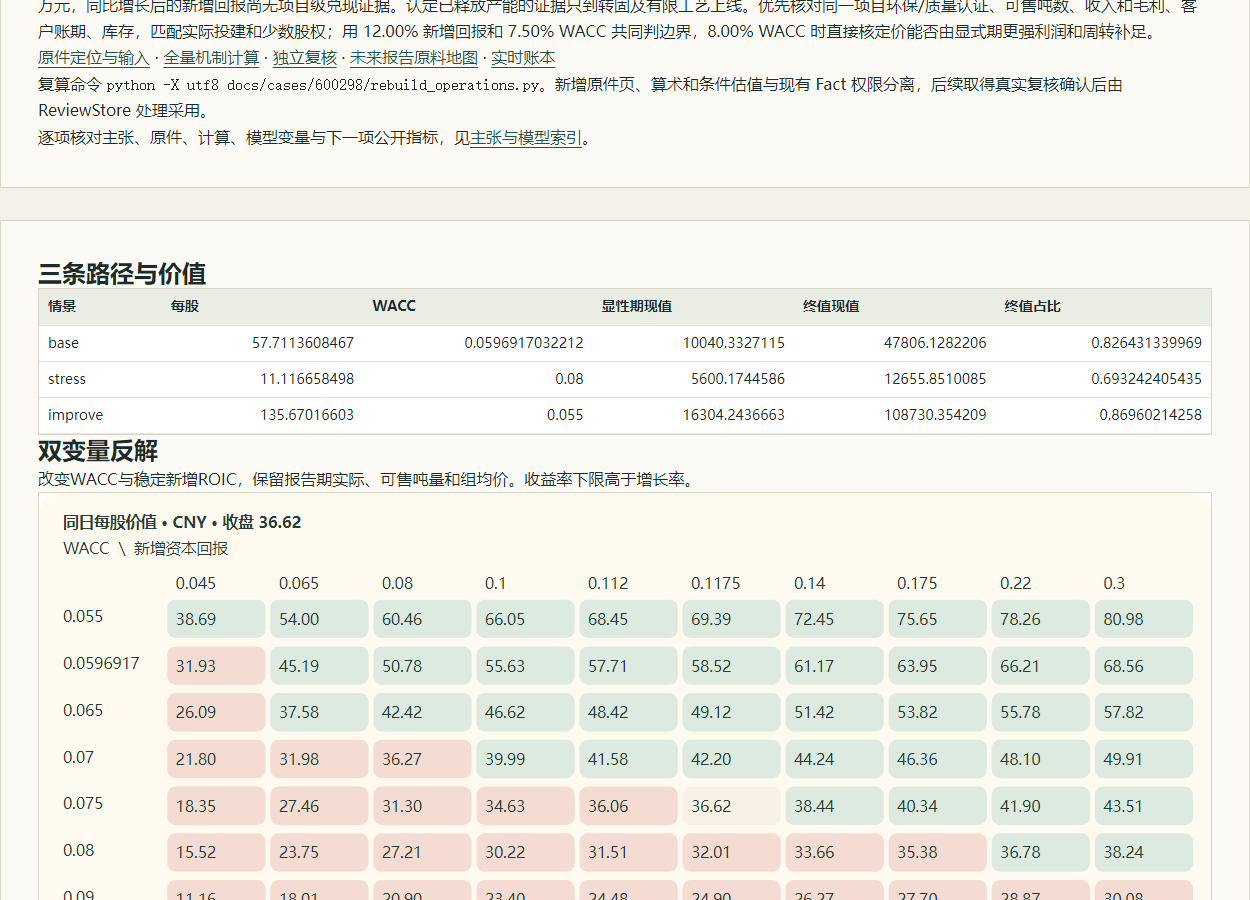
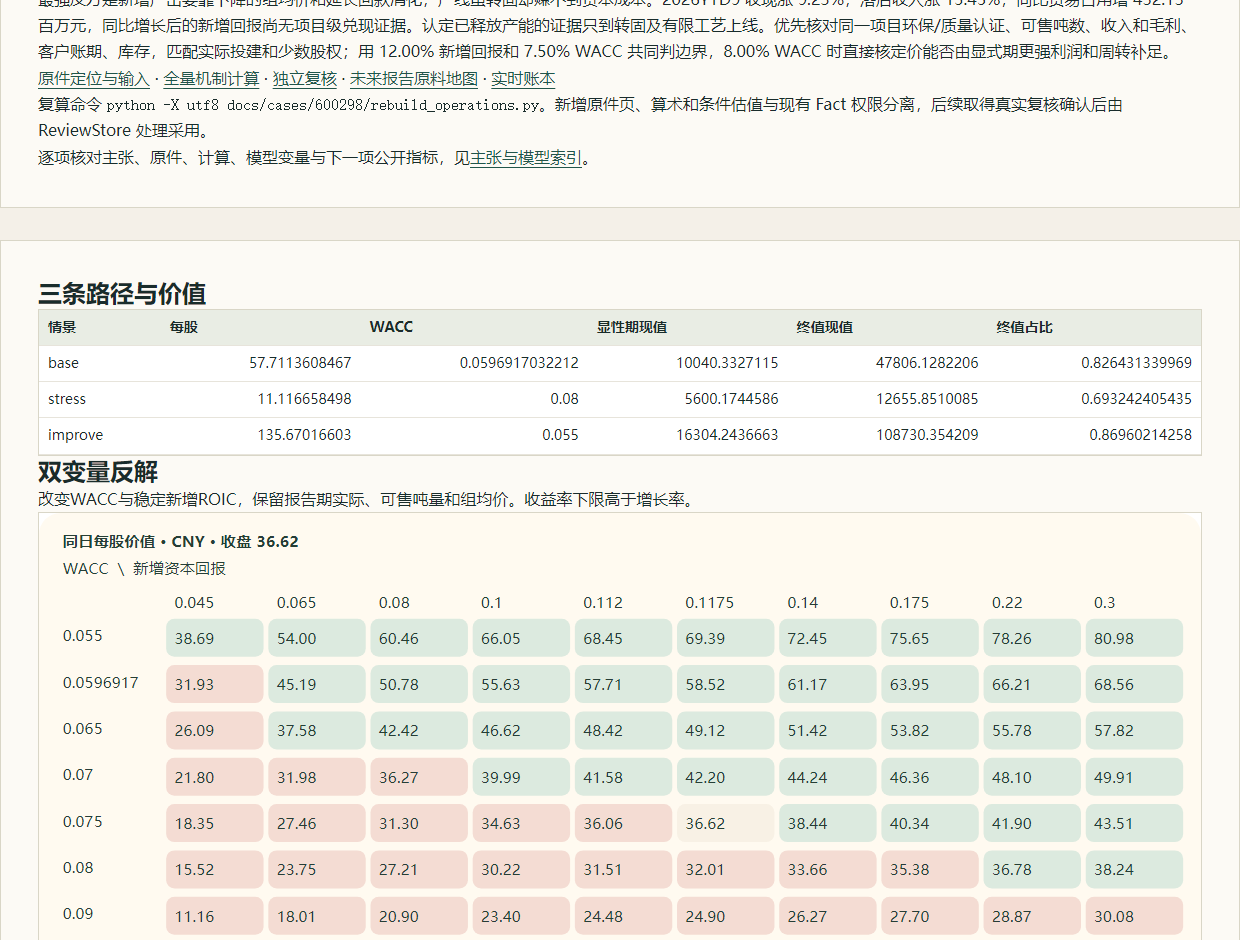
Record independent clean-clone and evidence acceptance

Changed region(s): [[0.0306, 0.28, 0.9806, 1.0], [0.0306, 0.0, 0.95, 0.1867], [0.0613, 0.6533, 0.0919, 0.6844]]

diff --git a/docs/cases/index.html b/docs/cases/index.html
@@ -106,7 +106,7 @@ td.long{min-width:195px;max-width:450px}
 .chapter:first-child{break-before:auto}
 th,td{break-inside:avoid}
 }
-</style></head><body><header class="mast"><div class="shell"><nav class="nav"><a href="/desk/">工作台</a> <a href="/cases/">五家公司案例</a> <a href="/atlas/">超级图册</a> <a href="/research/">证据与覆盖</a> <a href="/research/follow-up.html">期后记录</a></nav><div class="titleblock"><div><div class="dateline">2026-11-12 各市场当地收盘</div><h1>五家公司证券投资案例</h1><p>从交易、经营与资本回报推进到可复算的每股价值。</p></div><div class="edition">2026-11-12 各市场收盘</div></div></div></header><main class="shell note"><div class="cover-grid"><div class="tile"><h2><a href="/cases/002507/">涪陵榨菜</a></h2><p>收盘 11.42 CNY · 基准 15.09 CNY</p><nav class="source-links"><a href="/cases/002507/">正文与数据</a> <a href="/cases/002507/model.json">估值模型</a> <a href="/atlas/company/002507">独立图册</a></nav></div><div class="tile"><h2><a href="/cases/600298/">安琪酵母</a></h2><p>收盘 36.62 CNY · 基准 57.71 CNY</p><nav class="source-links"><a href="/cases/600298/">正文与数据</a> <a href="/cases/600298/model.json">估值模型</a> <a href="/atlas/company/600298">独立图册</a></nav></div><div class="tile"><h2><a href="/cases/688188/">柏楚电子</a></h2><p>收盘 96.20 CNY · 基准 92.76 CNY</p><nav class="source-links"><a href="/cases/688188/">正文与数据</a> <a href="/cases/688188/model.json">估值模型</a> <a href="/atlas/company/688188">独立图册</a></nav></div><div class="tile"><h2><a href="/cases/09992/">泡泡玛特</a></h2><p>收盘 143.40 HKD · 基准 166.65 HKD</p><nav class="source-links"><a href="/cases/09992/">正文与数据</a> <a href="/cases/09992/model.json">估值模型</a> <a href="/atlas/company/09992">独立图册</a></nav></div><div class="tile"><h2><a href="/cases/US/">ISRG</a></h2><p>收盘 439.89 USD · 基准 178.69 USD</p><nav class="source-links"><a href="/cases/US/">正文与数据</a> <a href="/cases/US/model.json">估值模型</a> <a href="/atlas/company/US">独立图册</a></nav></div></div><h2>选题比较与优先推荐</h2><div class="scroll" tabindex="0"><table><thead><tr><th scope="col">公司</th><th scope="col">推荐顺序</th><th scope="col">故事与可证伪性</th><th scope="col">原始证据质量</th><th scope="col">完成难度</th></tr></thead><tbody><tr><td class=""><a href="/cases/688188/">柏楚电子</a></td><td class="">优先</td><td class="long">销量、毛利、库存能构成可回代的故事。92.76 接近 96.20，反证能改变方向。</td><td class="long">财报同名系统销量、产品类别及库存可回查，客户级续购和配套服务费用仍缺。</td><td class="">中等</td></tr><tr><td class=""><a href="/cases/600298/">安琪酵母</a></td><td class="">备选</td><td class="long">新厂转固、销售认证与融资成本共同决定价差，跨周期材料完整。</td><td class="">投产与会计转固能核验，新厂可售吨量及吨现金回收难归属。</td><td class="">较高</td></tr><tr><td class=""><a href="/cases/002507/">涪陵榨菜</a></td><td class="">备选</td><td class="">渠道新增毛利能否留下现金，新基地投放存在明确反证。</td><td class="">渠道和项目表详尽，终端销量、退换货和旧线替代难拆。</td><td class="">中等</td></tr><tr><td class=""><a href="/cases/09992/">泡泡玛特</a></td><td class="">备选</td><td class="">IP接力、海外渠道和现金租金产生明显情景分岔。</td><td class="">区间披露不能还原季度绝对额，成熟门店同批次数据有缺口。</td><td class="">较高</td></tr><tr><td class=""><a href="/cases/US/">ISRG</a></td><td class="">备选</td><td class="long">术量和装机相互作用，现价需要超过发布改善路径的联合兑现。</td><td class="long">SEC业务和租赁附注可复算，单台使用强度、制造及维护现金仍需代理。</td><td class="">高</td></tr></tbody></table></div><nav class="source-links"><a href="/cases/acceptance.csv">验收矩阵</a> <a href="/cases/model-acceptance.json">全量复算回执</a> <a href="/cases/review.md">组长待审</a> <a href="/cases/README.md">运行说明</a></nav></main><script>
+</style></head><body><header class="mast"><div class="shell"><nav class="nav"><a href="/desk/">工作台</a> <a href="/cases/">五家公司案例</a> <a href="/atlas/">超级图册</a> <a href="/research/">证据与覆盖</a> <a href="/research/follow-up.html">期后记录</a></nav><div class="titleblock"><div><div class="dateline">2026-11-12 各市场当地收盘</div><h1>五家公司证券投资案例</h1><p>从交易、经营与资本回报推进到可复算的每股价值。</p></div><div class="edition">2026-11-12 各市场收盘</div></div></div></header><main class="shell note"><div class="cover-grid"><div class="tile"><h2><a href="/cases/002507/">涪陵榨菜</a></h2><p>收盘 11.42 CNY · 基准 15.09 CNY</p><nav class="source-links"><a href="/cases/002507/">正文与数据</a> <a href="/cases/002507/model.json">估值模型</a> <a href="/atlas/company/002507">独立图册</a></nav></div><div class="tile"><h2><a href="/cases/600298/">安琪酵母</a></h2><p>收盘 36.62 CNY · 基准 57.71 CNY</p><nav class="source-links"><a href="/cases/600298/">正文与数据</a> <a href="/cases/600298/model.json">估值模型</a> <a href="/atlas/company/600298">独立图册</a></nav></div><div class="tile"><h2><a href="/cases/688188/">柏楚电子</a></h2><p>收盘 96.20 CNY · 基准 92.76 CNY</p><nav class="source-links"><a href="/cases/688188/">正文与数据</a> <a href="/cases/688188/model.json">估值模型</a> <a href="/atlas/company/688188">独立图册</a></nav></div><div class="tile"><h2><a href="/cases/09992/">泡泡玛特</a></h2><p>收盘 143.40 HKD · 基准 166.65 HKD</p><nav class="source-links"><a href="/cases/09992/">正文与数据</a> <a href="/cases/09992/model.json">估值模型</a> <a href="/atlas/company/09992">独立图册</a></nav></div><div class="tile"><h2><a href="/cases/US/">ISRG</a></h2><p>收盘 439.89 USD · 基准 178.69 USD</p><nav class="source-links"><a href="/cases/US/">正文与数据</a> <a href="/cases/US/model.json">估值模型</a> <a href="/atlas/company/US">独立图册</a></nav></div></div><h2>选题比较与优先推荐</h2><div class="scroll" tabindex="0"><table><thead><tr><th scope="col">公司</th><th scope="col">推荐顺序</th><th scope="col">故事与可证伪性</th><th scope="col">原始证据质量</th><th scope="col">完成难度</th></tr></thead><tbody><tr><td class=""><a href="/cases/688188/">柏楚电子</a></td><td class="">优先</td><td class="long">销量、毛利、库存能构成可回代的故事。92.76 接近 96.20，反证能改变方向。</td><td class="long">财报同名系统销量、产品类别及库存可回查，客户级续购和配套服务费用仍缺。</td><td class="">中等</td></tr><tr><td class=""><a href="/cases/600298/">安琪酵母</a></td><td class="">备选</td><td class="long">新厂转固、销售认证与融资成本共同决定价差，跨周期材料完整。</td><td class="">投产与会计转固能核验，新厂可售吨量及吨现金回收难归属。</td><td class="">较高</td></tr><tr><td class=""><a href="/cases/002507/">涪陵榨菜</a></td><td class="">备选</td><td class="">渠道新增毛利能否留下现金，新基地投放存在明确反证。</td><td class="">渠道和项目表详尽，终端销量、退换货和旧线替代难拆。</td><td class="">中等</td></tr><tr><td class=""><a href="/cases/09992/">泡泡玛特</a></td><td class="">备选</td><td class="">IP接力、海外渠道和现金租金产生明显情景分岔。</td><td class="">区间披露不能还原季度绝对额，成熟门店同批次数据有缺口。</td><td class="">较高</td></tr><tr><td class=""><a href="/cases/US/">ISRG</a></td><td class="">备选</td><td class="long">术量和装机相互作用，现价需要超过发布改善路径的联合兑现。</td><td class="long">SEC业务和租赁附注可复算，单台使用强度、制造及维护现金仍需代理。</td><td class="">高</td></tr></tbody></table></div><nav class="source-links"><a href="/cases/acceptance.csv">验收矩阵</a> <a href="/cases/model-acceptance.json">全量复算回执</a> <a href="/cases/rebuild-receipt.json">干净克隆验收</a> <a href="/cases/review.html">组长待审</a> <a href="/cases/motion.html">动效预览</a> <a href="/cases/README.md">运行说明</a></nav></main><script>
 (() => {
   'use strict';
   const query = (s, root = document) => root.querySelector(s);

diff --git a/app/case_site.py b/app/case_site.py
@@ -121,7 +121,7 @@ def overview(root, out):
               +data_table(['公司','推荐顺序','故事与可证伪性','原始证据质量','完成难度'],
                  [[dict(title=NAMES[r[0]],href='/cases/'+r[0]+'/'),*r[1:]] for r in SELECT])
               +links([('验收矩阵','/cases/acceptance.csv'),('全量复算回执','/cases/model-acceptance.json'),
-                      ('组长待审','/cases/review.md'),('运行说明','/cases/README.md')])+'</main>')
+                      ('干净克隆验收','/cases/rebuild-receipt.json'),('组长待审','/cases/review.html'),('动效预览','/cases/motion.html'),('运行说明','/cases/README.md')])+'</main>')
 
 
 def render_case(root, out, code):

diff --git a/docs/cases/README.md b/docs/cases/README.md
@@ -30,4 +30,4 @@ python -X utf8 五公司工作台/start.py
 
 冷启动可逐项复算65个财年、49条近期比较、15条情景和62项旧价格回代。原件通过工作台原件页或恢复脚本按指纹获取。原件未恢复时，阶段17的188条是冻结快照，实时Fact以ReviewStore实际绑定为准。新材料保留对读者、可获日、期间、行列和证据标签，由独立原披露账本按授权流程认定。项目对读的原件证据见各家复核文件与[五家合并收入抽查](original-receipt.json)。
 
-正式报告在团队选定主对象后按素材地图组织。 [60项验收矩阵](acceptance.csv) · [复算回执](model-acceptance.json) · [组长待审与下一步](review.md) · [动效与预览](motion.md)
+正式报告在团队选定主对象后按素材地图组织。 [60项验收矩阵](acceptance.csv) · [复算回执](model-acceptance.json) · [干净克隆和浏览器验收](rebuild-receipt.json) · [组长待审与下一步](review.md) · [动效与预览](motion.md)
